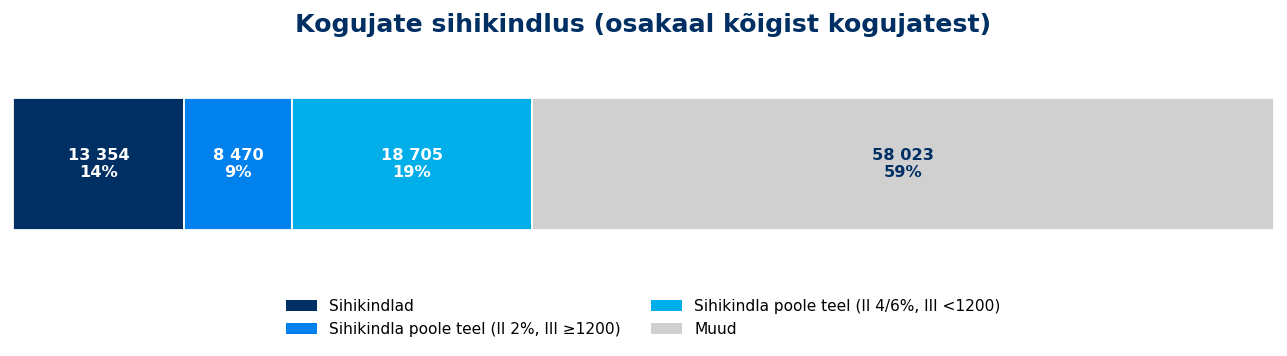
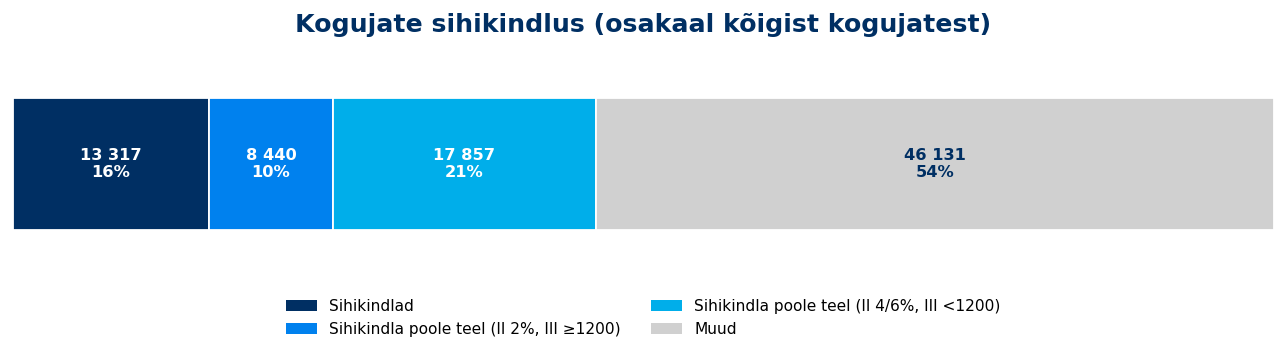
Anchor saver-determination base to official active-investor count
The determination base was card 2324's raw row count (98,552 for June),
which includes ~13k non-active people (exited / fully redeemed) and did
not match the savers table (85,745). Segment only active savers (positive
AUM in any pillar) and anchor the total to the card 2578 active-investor
count, with Muud as the residual — so the total ties to table 2. This
also makes the column comparable to the 2025 annual-report baseline
(83,378), which was likewise built on the official active-investor count.

Changed region(s): [[0.0622, 0.2781, 0.373, 0.6489], [0.404, 0.2781, 0.4662, 0.6489], [0.6838, 0.4017, 0.7459, 0.4944]]

diff --git a/reports/monthly/saver_determination.py b/reports/monthly/saver_determination.py
@@ -98,22 +98,38 @@ def list_snapshots() -> list:
     return out
 
 
-def compute_determination(df) -> dict:
-    """Return aggregate counts for each determination segment."""
-    rate = df['Current Rate'].fillna(0)
-    iii = df['Third Pillar Last 12m Contributions Sum'].fillna(0)
+# Positive AUM in any pillar => an "active" saver, matching the population that
+# card 2578 counts as an active investor. Card 2324 also carries non-active people
+# (exited / fully redeemed), which is why its raw row count is ~13k higher.
+_AUM_COLS = ['Tuk75 Current Aum', 'Tuk00 Current Aum', 'Third Pillar Current Aum']
+
+
+def compute_determination(df, active_total: int = None) -> dict:
+    """Return aggregate counts for each determination segment.
+
+    Segments are computed over *active* savers only (positive AUM in at least one
+    pillar), so the base matches the official active-investor count from card 2578
+    rather than card 2324's broader row count. Pass ``active_total`` (that official
+    count) to anchor the base exactly; ``other`` (Muud) is then the residual. Left
+    unset, the base is card 2324's own active subset.
+    """
+    active = (df[_AUM_COLS].fillna(0) > 0).any(axis=1)
+    a = df[active]
+    rate = a['Current Rate'].fillna(0)
+    iii = a['Third Pillar Last 12m Contributions Sum'].fillna(0)
     hi = rate.isin([4, 6])
-    determined = hi & (iii >= DETERMINED_III_MIN)
-    a = hi & (iii < DETERMINED_III_MIN)
-    b = (rate == 2) & (iii >= DETERMINED_III_MIN)
-    n = len(df)
+    determined = int((hi & (iii >= DETERMINED_III_MIN)).sum())
+    halfway_a = int((hi & (iii < DETERMINED_III_MIN)).sum())
+    halfway_b = int(((rate == 2) & (iii >= DETERMINED_III_MIN)).sum())
+    total = int(active_total) if active_total else int(active.sum())
+    halfway = halfway_a + halfway_b
     return {
-        'total': n,
-        'determined': int(determined.sum()),
-        'halfway_a': int(a.sum()),
-        'halfway_b': int(b.sum()),
-        'halfway': int((a | b).sum()),
-        'other': int((~(determined | a | b)).sum()),
+        'total': total,
+        'determined': determined,
+        'halfway_a': halfway_a,
+        'halfway_b': halfway_b,
+        'halfway': halfway,
+        'other': total - determined - halfway,
     }
 
 

diff --git a/reports/monthly/build_monthly_report.py b/reports/monthly/build_monthly_report.py
@@ -474,19 +474,22 @@ def build_md(year: int, month: int) -> Path:
         'cumulative_returns': 'charts/cumulative_returns.png',
     }
 
-    # Saver determination (current snapshot from per-saver card 2324).
-    # Aggregate counts only; per-person data stays in the outside-repo cache.
+    # Pre-process data first so the official active-investor count is available.
+    report = preprocess_data(data, year, month)
+
+    # Saver determination (per-saver card 2324): segment active savers and anchor
+    # the base to the official active-investor count (card 2578) so the total ties
+    # to the savers table above. Aggregate counts only; per-person data stays in
+    # the outside-repo cache.
     saver_df = sd.load_card_2324()
-    determination = sd.compute_determination(saver_df) if saver_df is not None else None
+    official_total = (report.get('savers') or {}).get('kogujate arv')
+    determination = (sd.compute_determination(saver_df, active_total=official_total)
+                     if saver_df is not None else None)
+    report['determination'] = determination
     if determination:
         sd.generate_determination_chart(
             determination, output_dir / 'charts' / 'determination.png')
         chart_paths['determination'] = 'charts/determination.png'
-
-    # Pre-process data and render template
-    report = preprocess_data(data, year, month)
-    report['determination'] = determination
-    if determination:
         last_day = calendar.monthrange(year, month)[1]
         report['determination_table'] = sd.determination_comparison_md(
             determination, f'{last_day:02d}.{month:02d}.{year}')

diff --git a/reports/monthly/output/2026/monthly_report_2026-06.md b/reports/monthly/output/2026/monthly_report_2026-06.md
@@ -77,14 +77,14 @@
 
 | Grupp | 31.12.2025 | 30.06.2026 | Muutus |
 |---|:---:|:---:|:---:|
-| **Sihikindlad** (II 4/6% ja III ≥ 1200 €) | 12,796 (15,3%) | 13,354 (13,6%) | +558 (−1,8 pp) |
-| **Sihikindla poole teel** | 15,558 (18,7%) | 27,175 (27,6%) | +11,617 (+8,9 pp) |
-| &nbsp;&nbsp;– II 4/6%, aga III < 1200 € | 9,781 (11,7%) | 18,705 (19,0%) | +8,924 (+7,2 pp) |
-| &nbsp;&nbsp;– II 2%, aga III ≥ 1200 € | 5,777 (6,9%) | 8,470 (8,6%) | +2,693 (+1,7 pp) |
-| Muud | 55,024 (66,0%) | 58,023 (58,9%) | +2,999 (−7,1 pp) |
-| **Kogujaid kokku** | **83,378** | **98,552** | **+15,174** |
+| **Sihikindlad** (II 4/6% ja III ≥ 1200 €) | 12,796 (15,3%) | 13,317 (15,5%) | +521 (+0,2 pp) |
+| **Sihikindla poole teel** | 15,558 (18,7%) | 26,297 (30,7%) | +10,739 (+12,0 pp) |
+| &nbsp;&nbsp;– II 4/6%, aga III < 1200 € | 9,781 (11,7%) | 17,857 (20,8%) | +8,076 (+9,1 pp) |
+| &nbsp;&nbsp;– II 2%, aga III ≥ 1200 € | 5,777 (6,9%) | 8,440 (9,8%) | +2,663 (+2,9 pp) |
+| Muud | 55,024 (66,0%) | 46,131 (53,8%) | −8,893 (−12,2 pp) |
+| **Kogujaid kokku** | **83,378** | **85,745** | **+2,367** |
 
-*Võrdlus 2025. aasta aruande hetkeseisuga (card 2324): II samba maksemäär × III samba viimase 12 kuu sissemaksed. Baas hõlmab kõiki kogujaid, sh neid, kellel pole aktiivset sissemakset. Osakaal on arvestatud vastava kuupäeva kogubaasist.*
+*Võrdlus 2025. aasta aruande hetkeseisuga. Segment (card 2324): II samba maksemäär × III samba viimase 12 kuu sissemaksed. Baas on aktiivsete kogujate arv (card 2578), sama mis tabelis 2 — "Muud" on jääk. Osakaal on arvestatud vastava kuupäeva kogubaasist.*
 
 
 ---

diff --git a/reports/monthly/content/report.md b/reports/monthly/content/report.md
@@ -86,7 +86,7 @@
 
 {{ report.determination_table }}
 
-*Võrdlus 2025. aasta aruande hetkeseisuga (card 2324): II samba maksemäär × III samba viimase 12 kuu sissemaksed. Baas hõlmab kõiki kogujaid, sh neid, kellel pole aktiivset sissemakset. Osakaal on arvestatud vastava kuupäeva kogubaasist.*
+*Võrdlus 2025. aasta aruande hetkeseisuga. Segment (card 2324): II samba maksemäär × III samba viimase 12 kuu sissemaksed. Baas on aktiivsete kogujate arv (card 2578), sama mis tabelis 2 — "Muud" on jääk. Osakaal on arvestatud vastava kuupäeva kogubaasist.*
 {% endif %}
 
 ---